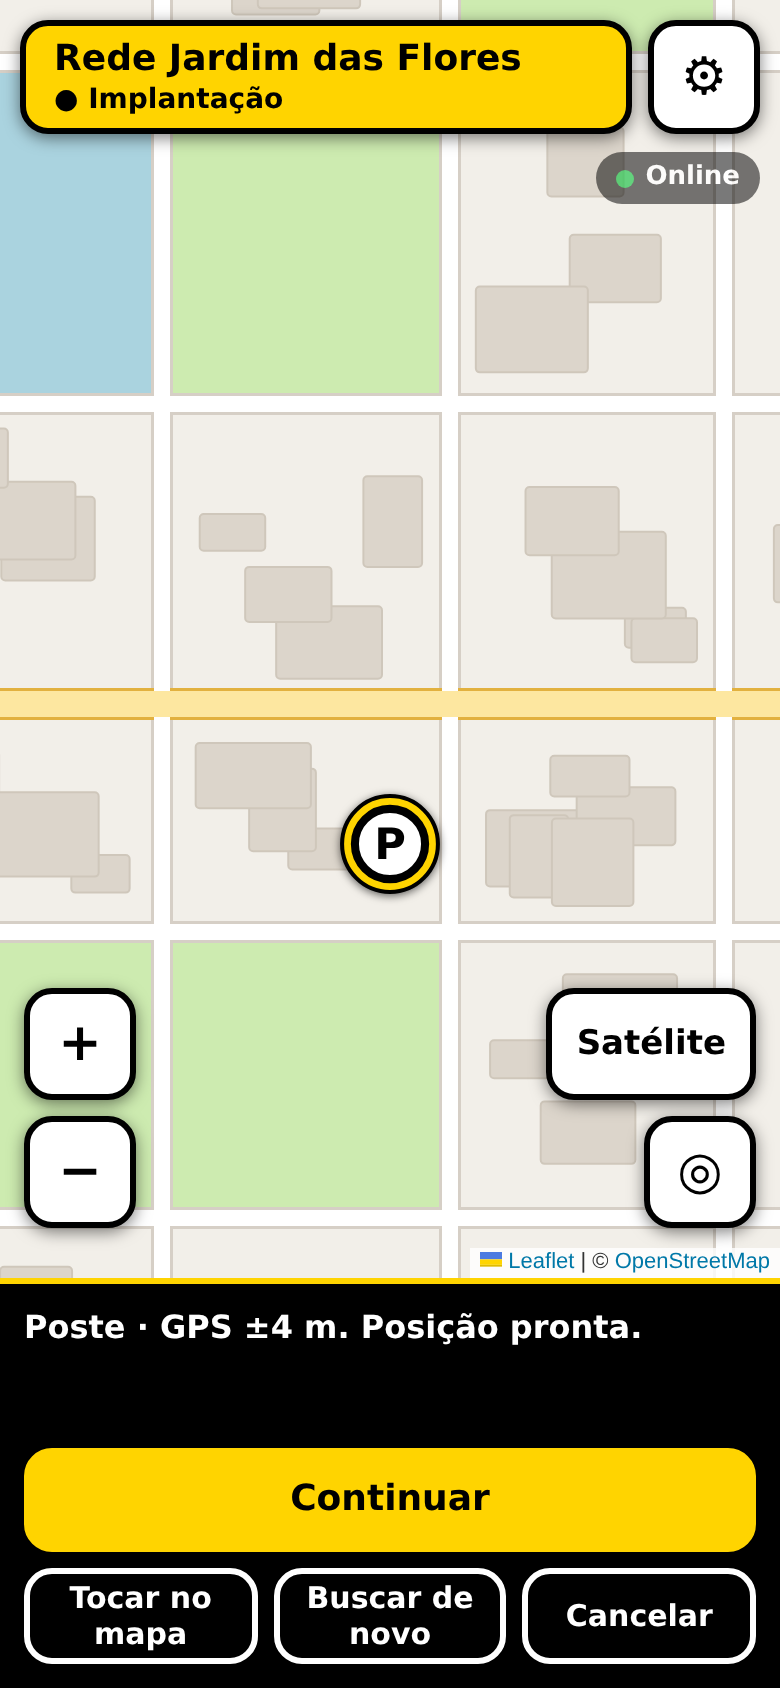
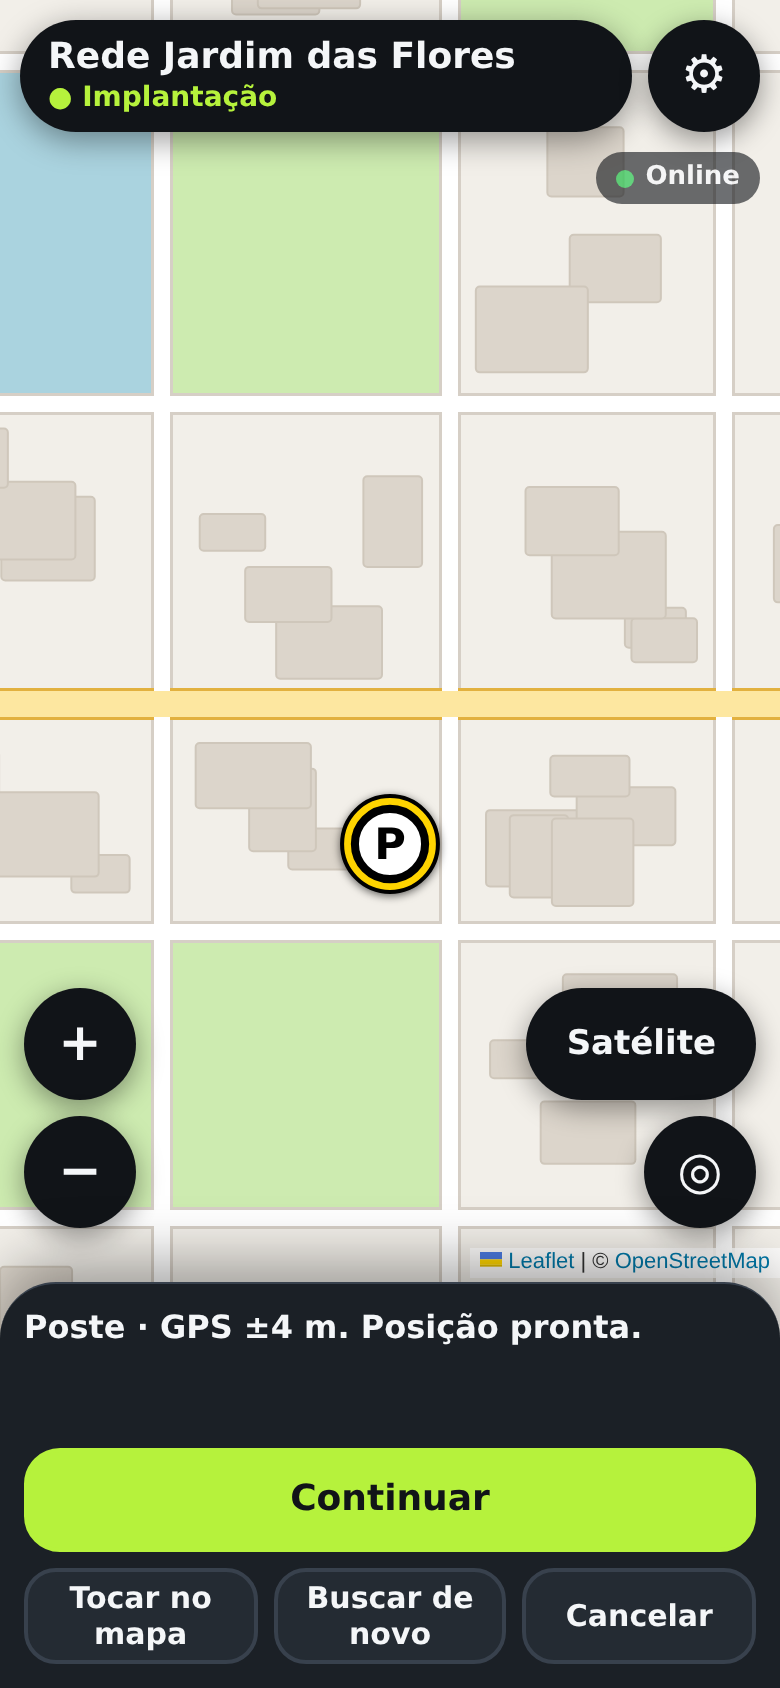
Temas (4/4, parte 2): README com as capturas novas (dois temas, barra de abas, lançamento) e ajuste do rodapé da tabela do painel
Claude-Session: https://claude.ai/code/session_0172ML3ASL7fVEQxeB7XnFoV

diff --git a/src/theme/theme.css b/src/theme/theme.css
@@ -205,6 +205,7 @@
 :root[data-theme] .panel-table th:first-child,
 :root[data-theme] .panel-table td:first-child { background: var(--bg); }
 :root[data-theme] .panel-table tfoot td { border-top-color: var(--border); }
+:root[data-theme] .panel-table tfoot td:first-child { background: var(--surface); }
 :root[data-theme] .panel-table tbody tr:hover,
 :root[data-theme] .panel-table tbody tr:hover td:first-child { background: var(--surface-2); }
 :root[data-theme] .panel-table tr[aria-selected='true'],

diff --git a/README.md b/README.md
@@ -62,7 +62,7 @@ Estas regras guiam todas as decisões do projeto.
 | 1 | **Offline-first** | Tudo é salvo primeiro no aparelho (IndexedDB). Nenhuma ação de campo depende de internet; a sincronização acontece depois. |
 | 2 | **O cabo é desenhado poste a poste** | O traçado liga elementos marcados. A trilha GPS é um registro de deslocamento separado e **nunca** vira cabo sozinha. |
 | 3 | **Precisão visível** | Todo ponto de GPS guarda a precisão em metros. Acima de 15 m o app avisa e oferece ajustar o ponto arrastando sobre o satélite. |
-| 4 | **Feito para campo** | Mobile-first, botões de no mínimo 48 px, alto contraste (legível no sol), uso com uma mão, poucos toques e confirmação antes de excluir. |
+| 4 | **Feito para campo** | Mobile-first, botões de no mínimo 48 px, alto contraste (legível no sol), uso com uma mão (barra de abas e botão MARCAR ao alcance do polegar), dois temas de cor, poucos toques e confirmação antes de excluir. |
 | 5 | **Sem credenciais no frontend** | No app só existe a chave pública do Supabase, protegida por RLS. |
 | 6 | **Exclusão sempre lógica** | `deleted = true`, nunca `DELETE`, para não quebrar a sincronização. |
 
@@ -107,7 +107,7 @@ Capturas com **dados de exemplo e mapa ilustrativo**: as ruas e as quadras vêm 
   <tr>
     <td align="center" width="25%"><img src="docs/img/01-marcar-poste.png" alt="Marcando um poste com GPS de 4 metros de precisão" width="190"><br><b>Marcar um poste</b><br><sub>GPS ±4 m: posição pronta</sub></td>
     <td align="center" width="25%"><img src="docs/img/02-gps-impreciso.png" alt="GPS impreciso: mapa de satélite e marcador para ajustar" width="190"><br><b>GPS impreciso</b><br><sub>Acima de 15 m, o app avisa e abre o satélite para ajustar</sub></td>
-    <td align="center" width="25%"><img src="docs/img/03-lancar-tronco.png" alt="Lançamento do cabo-tronco com escolha de Poste, CEO ou CTO" width="190"><br><b>Lançar o tronco</b><br><sub>Poste, CEO ou CTO a cada ponto</sub></td>
+    <td align="center" width="25%"><img src="docs/img/03-lancar-tronco.png" alt="Lançamento do cabo-tronco: caminho no alto, escolha de Poste, CEO ou CTO e o botão MARCAR" width="190"><br><b>Lançar o tronco</b><br><sub>Poste, CEO ou CTO a cada ponto, no botão MARCAR</sub></td>
     <td align="center" width="25%"><img src="docs/img/04-derivar-ramal.png" alt="Diálogo para derivar um ramal a partir de uma CEO" width="190"><br><b>Derivar um ramal</b><br><sub>Tipo e fibras do ramal, a partir da CEO</sub></td>
   </tr>
   <tr>
@@ -115,6 +115,19 @@ Capturas com **dados de exemplo e mapa ilustrativo**: as ruas e as quadras vêm 
     <td align="center"><img src="docs/img/06-finalizar-lancamento.png" alt="Resumo do lançamento com tronco, ramais e fibra de cada CTO" width="190"><br><b>Finalizar</b><br><sub>Tronco, ramais e a fibra de cada CTO</sub></td>
     <td align="center"><img src="docs/img/07-rota-acesa.png" alt="Rota acesa no mapa com os três cabos ligados e as CTOs" width="190"><br><b>Rota acesa</b><br><sub>Tocar num cabo mostra a rede toda, ligada</sub></td>
     <td align="center"><img src="docs/img/08-fibras-do-cabo.png" alt="Ficha do cabo com as fibras e tubos nas cores da ABNT" width="190"><br><b>Fibras do cabo</b><br><sub>Cores ABNT, por tubo</sub></td>
+  </tr>
+</table>
+
+### Dois temas de cor
+
+Cada pessoa escolhe em *Ajustes › Aparência* (vale só para o aparelho dela). O desenho é o mesmo; o mapa fica claro nos dois.
+
+<table>
+  <tr>
+    <td align="center" width="25%"><img src="docs/img/12-tema-polegar-mapa.png" alt="Tema Polegar: mapa com a rede e a barra de abas" width="190"><br><b>Polegar</b><br><sub>Grafite e verde-limão: contraste alto, bom ao sol</sub></td>
+    <td align="center" width="25%"><img src="docs/img/03-lancar-tronco.png" alt="Tema Polegar: lançando o cabo" width="190"><br><b>Polegar</b><br><sub>Lançando o cabo com o polegar</sub></td>
+    <td align="center" width="25%"><img src="docs/img/14-tema-fibra-mapa.png" alt="Tema Fibra: mapa com a rede e a barra de abas" width="190"><br><b>Fibra</b><br><sub>Azul-petróleo e ciano: suave, ótimo à noite</sub></td>
+    <td align="center" width="25%"><img src="docs/img/15-tema-fibra-lancamento.png" alt="Tema Fibra: lançando o cabo" width="190"><br><b>Fibra</b><br><sub>Mesmo lançamento no outro tema</sub></td>
   </tr>
 </table>
 
